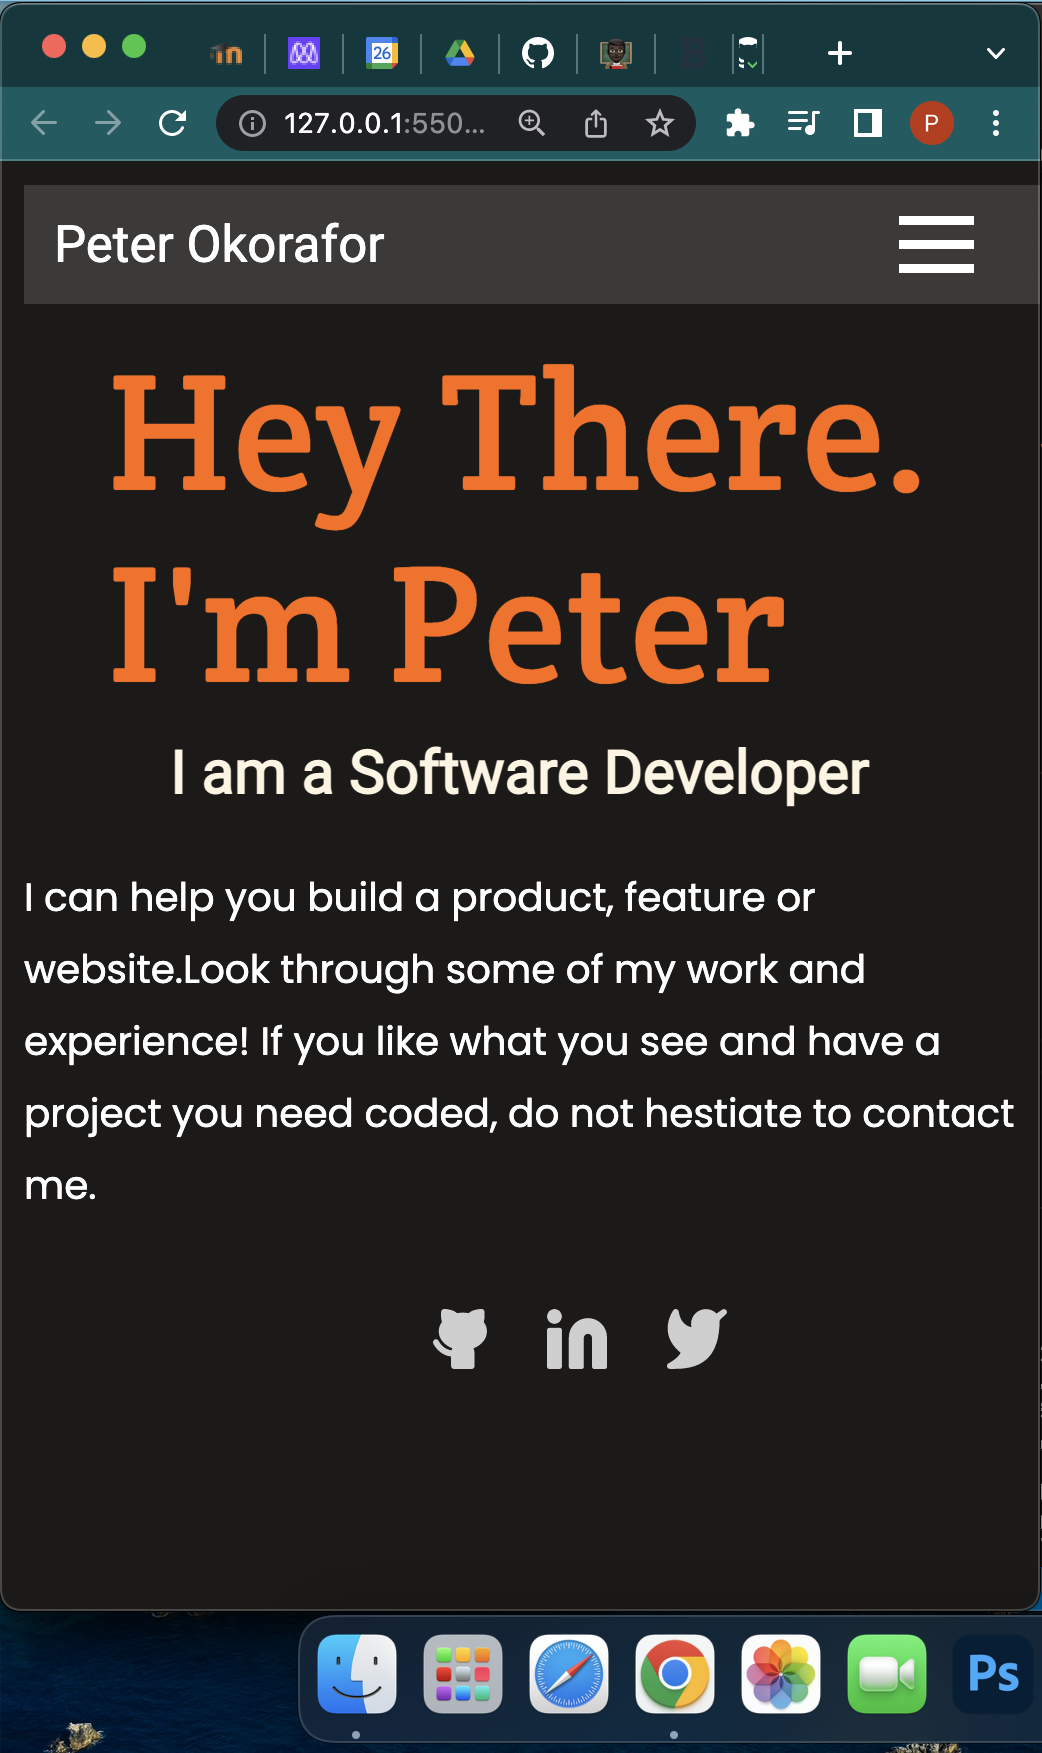
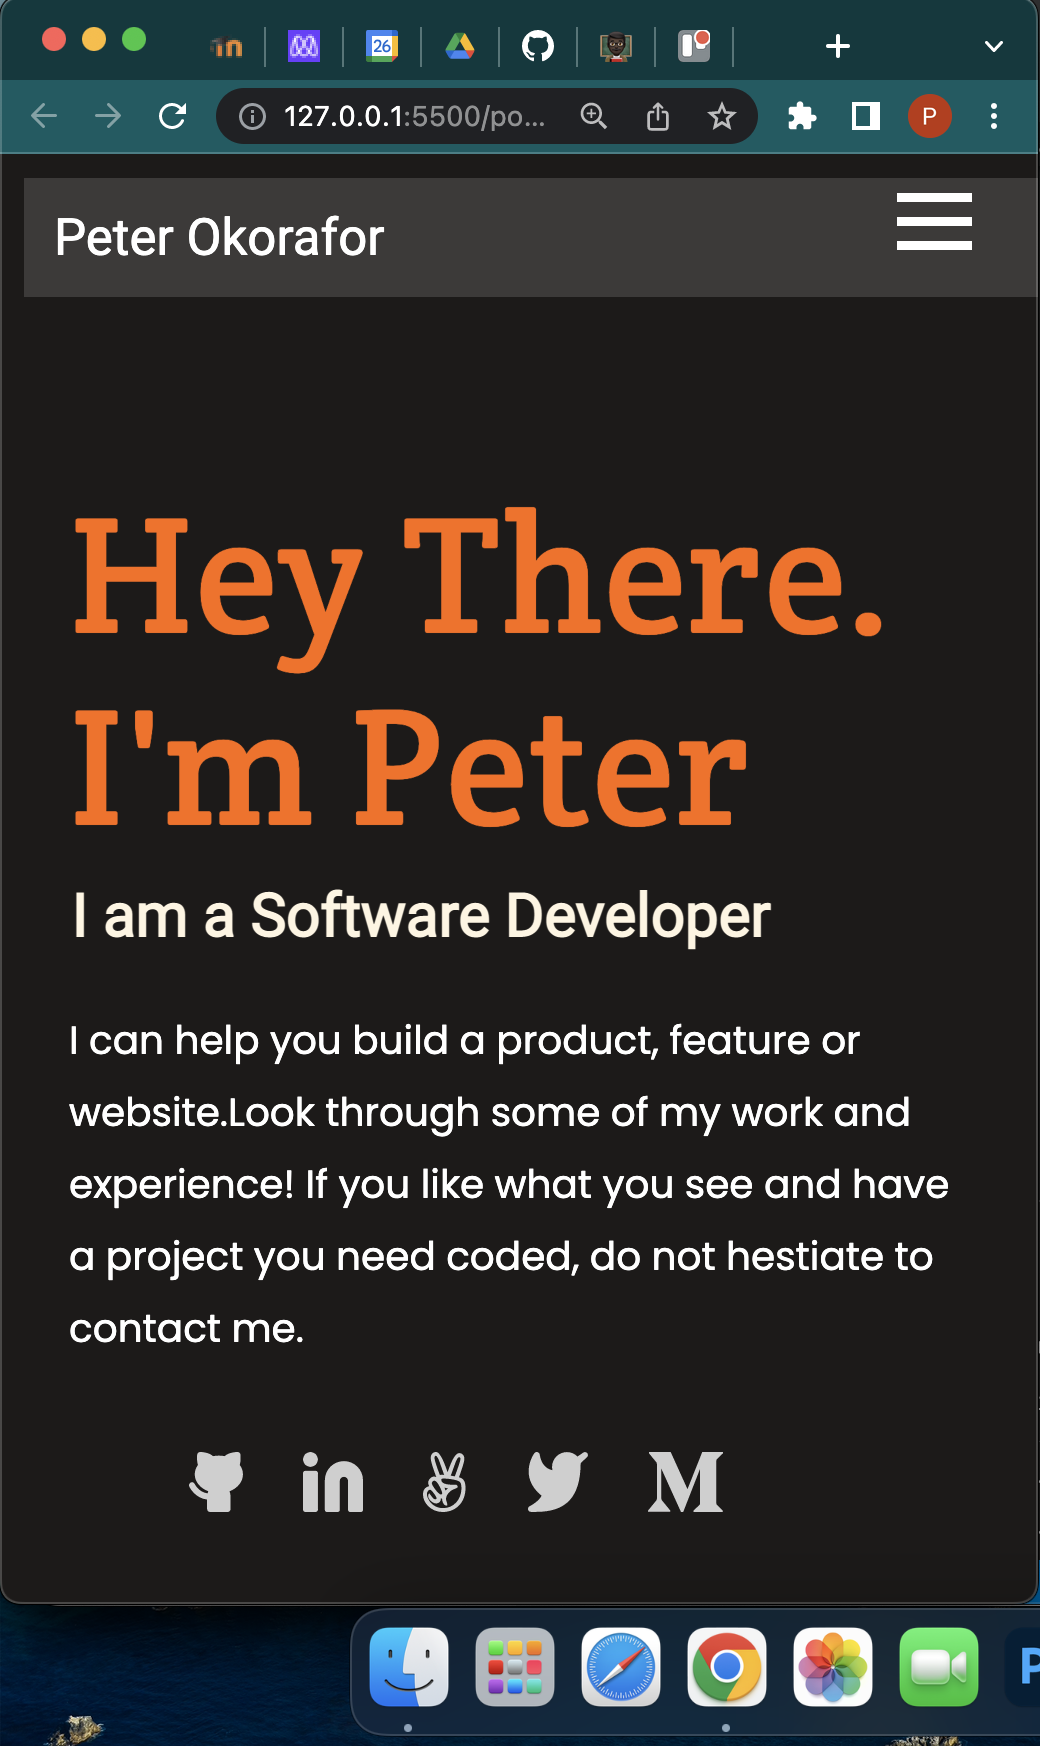
Changed content alignment, updated html and README.md

diff --git a/index.html b/index.html
@@ -56,7 +56,13 @@
                     <a href="http://linkedin.com/in/peterokorafor" id="linkedin" target="blank"><img src="assets/linkedin.svg" alt="linkedin"></a>
                 </li>
                 <li>
+                    <a href="http://angellist.com" id="angel-list" target="blank"><img src="assets/angellist.svg" alt="angel-list"></a>
+                </li>
+                <li>
                     <a href="http://twitter.com/PeterDeTitan" id="twitter" target="blank"><img src="assets/twitter.svg" alt="twitter"></a>
+                </li>
+                <li>
+                    <a href="http://medium.com" id="medium" target="blank"><img src="assets/medium.svg" alt="linkedin"></a>
                 </li>
             </ul>
         </div>    

diff --git a/css/style.css b/css/style.css
@@ -26,7 +26,6 @@ li {
   display: flex;
   flex-direction: row;
   justify-content: space-between;
-  align-items: center;
   font-family: 'Roboto', sans-serif;
   width: 100%;
   position: fixed;
@@ -43,9 +42,12 @@ header a {
 .container {
   display: flex;
   flex-direction: column;
-  align-items: center;
   justify-content: center;
   gap: 4px;
+}
+
+.main-content {
+  padding: 50px 20px 1px 15px;
 }
 
 .headline {
@@ -82,6 +84,4 @@ header a {
 .links * {
   display: flex;
   gap: 20px;
-  align-items: center;
-  justify-content: center;
 }

diff --git a/README.md b/README.md
@@ -6,12 +6,10 @@
 
 ![screenshot](./assets/screenshot.png)
 
-
 ## Built With
 
 - HTML and CSS
 - Bootstrap
-
 
 ## Getting Started
 
